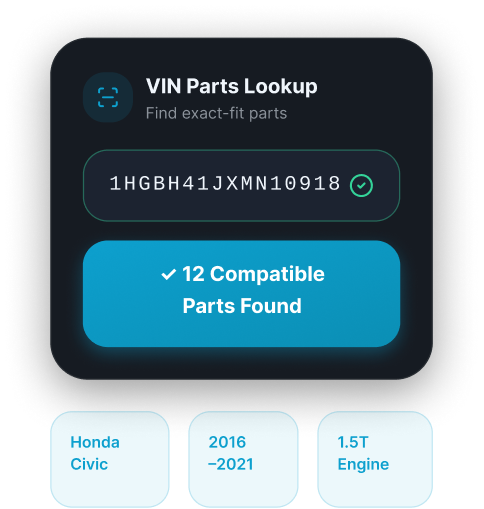
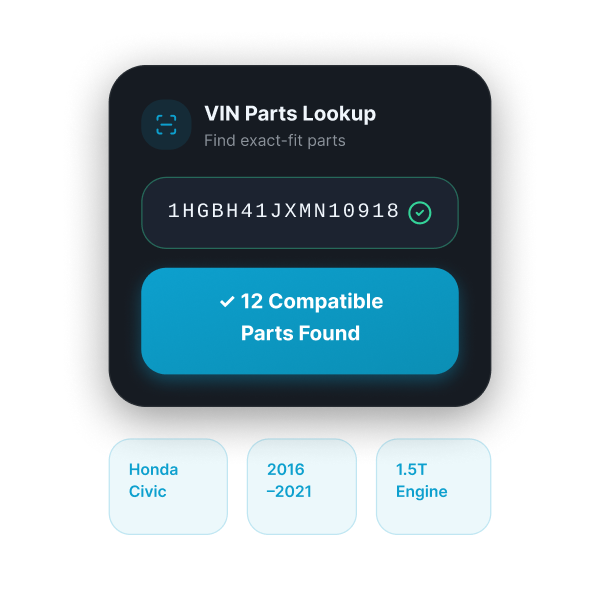
feat: Update onboarding screen images and refine layout spacing for improved presentation.

diff --git a/lib/features/onboarding/presentation/widgets/welcome_view.dart b/lib/features/onboarding/presentation/widgets/welcome_view.dart
@@ -14,11 +14,11 @@ class WelcomeView extends StatelessWidget {
       child: Column(
         crossAxisAlignment: CrossAxisAlignment.start,
         children: [
-          SizedBox(height: 60.h),
+          SizedBox(height: 48.h),
           // Graphic section
           Center(
             child: SizedBox(
-              height: 260.h,
+              height: 250.h,
               child: Image.asset(
                 AppImages.onboardingPage1,
                 fit: BoxFit.contain,
@@ -26,7 +26,7 @@ class WelcomeView extends StatelessWidget {
             ),
           ),
 
-          SizedBox(height: 48.h),
+          SizedBox(height: 24.h),
           // Text Content
           Row(
             children: [

diff --git a/lib/features/onboarding/presentation/widgets/wreck_to_cash_view.dart b/lib/features/onboarding/presentation/widgets/wreck_to_cash_view.dart
@@ -19,7 +19,7 @@ class WreckToCashView extends StatelessWidget {
           // Graphic: truck circle + 3 step cards + payout strip
           Center(
             child: SizedBox(
-              width: 280.w,
+              height: 250.h,
               child: Image.asset(
                 AppImages.onboardingPage4,
                 fit: BoxFit.contain,

diff --git a/lib/features/onboarding/presentation/widgets/smart_vin_view.dart b/lib/features/onboarding/presentation/widgets/smart_vin_view.dart
@@ -19,7 +19,7 @@ class SmartVinView extends StatelessWidget {
           // VIN card section
           Center(
             child: SizedBox(
-              width: 242.w,
+              height: 250.h,
               child: Image.asset(
                 AppImages.onboardingPage3,
                 fit: BoxFit.contain,

diff --git a/lib/features/onboarding/presentation/widgets/quality_parts_view.dart b/lib/features/onboarding/presentation/widgets/quality_parts_view.dart
@@ -25,7 +25,7 @@ class QualityPartsView extends StatelessWidget {
               ),
             ),
           ),
-          SizedBox(height: 16.h),
+          SizedBox(height: 24.h),
 
           // Text Content
           Row(
